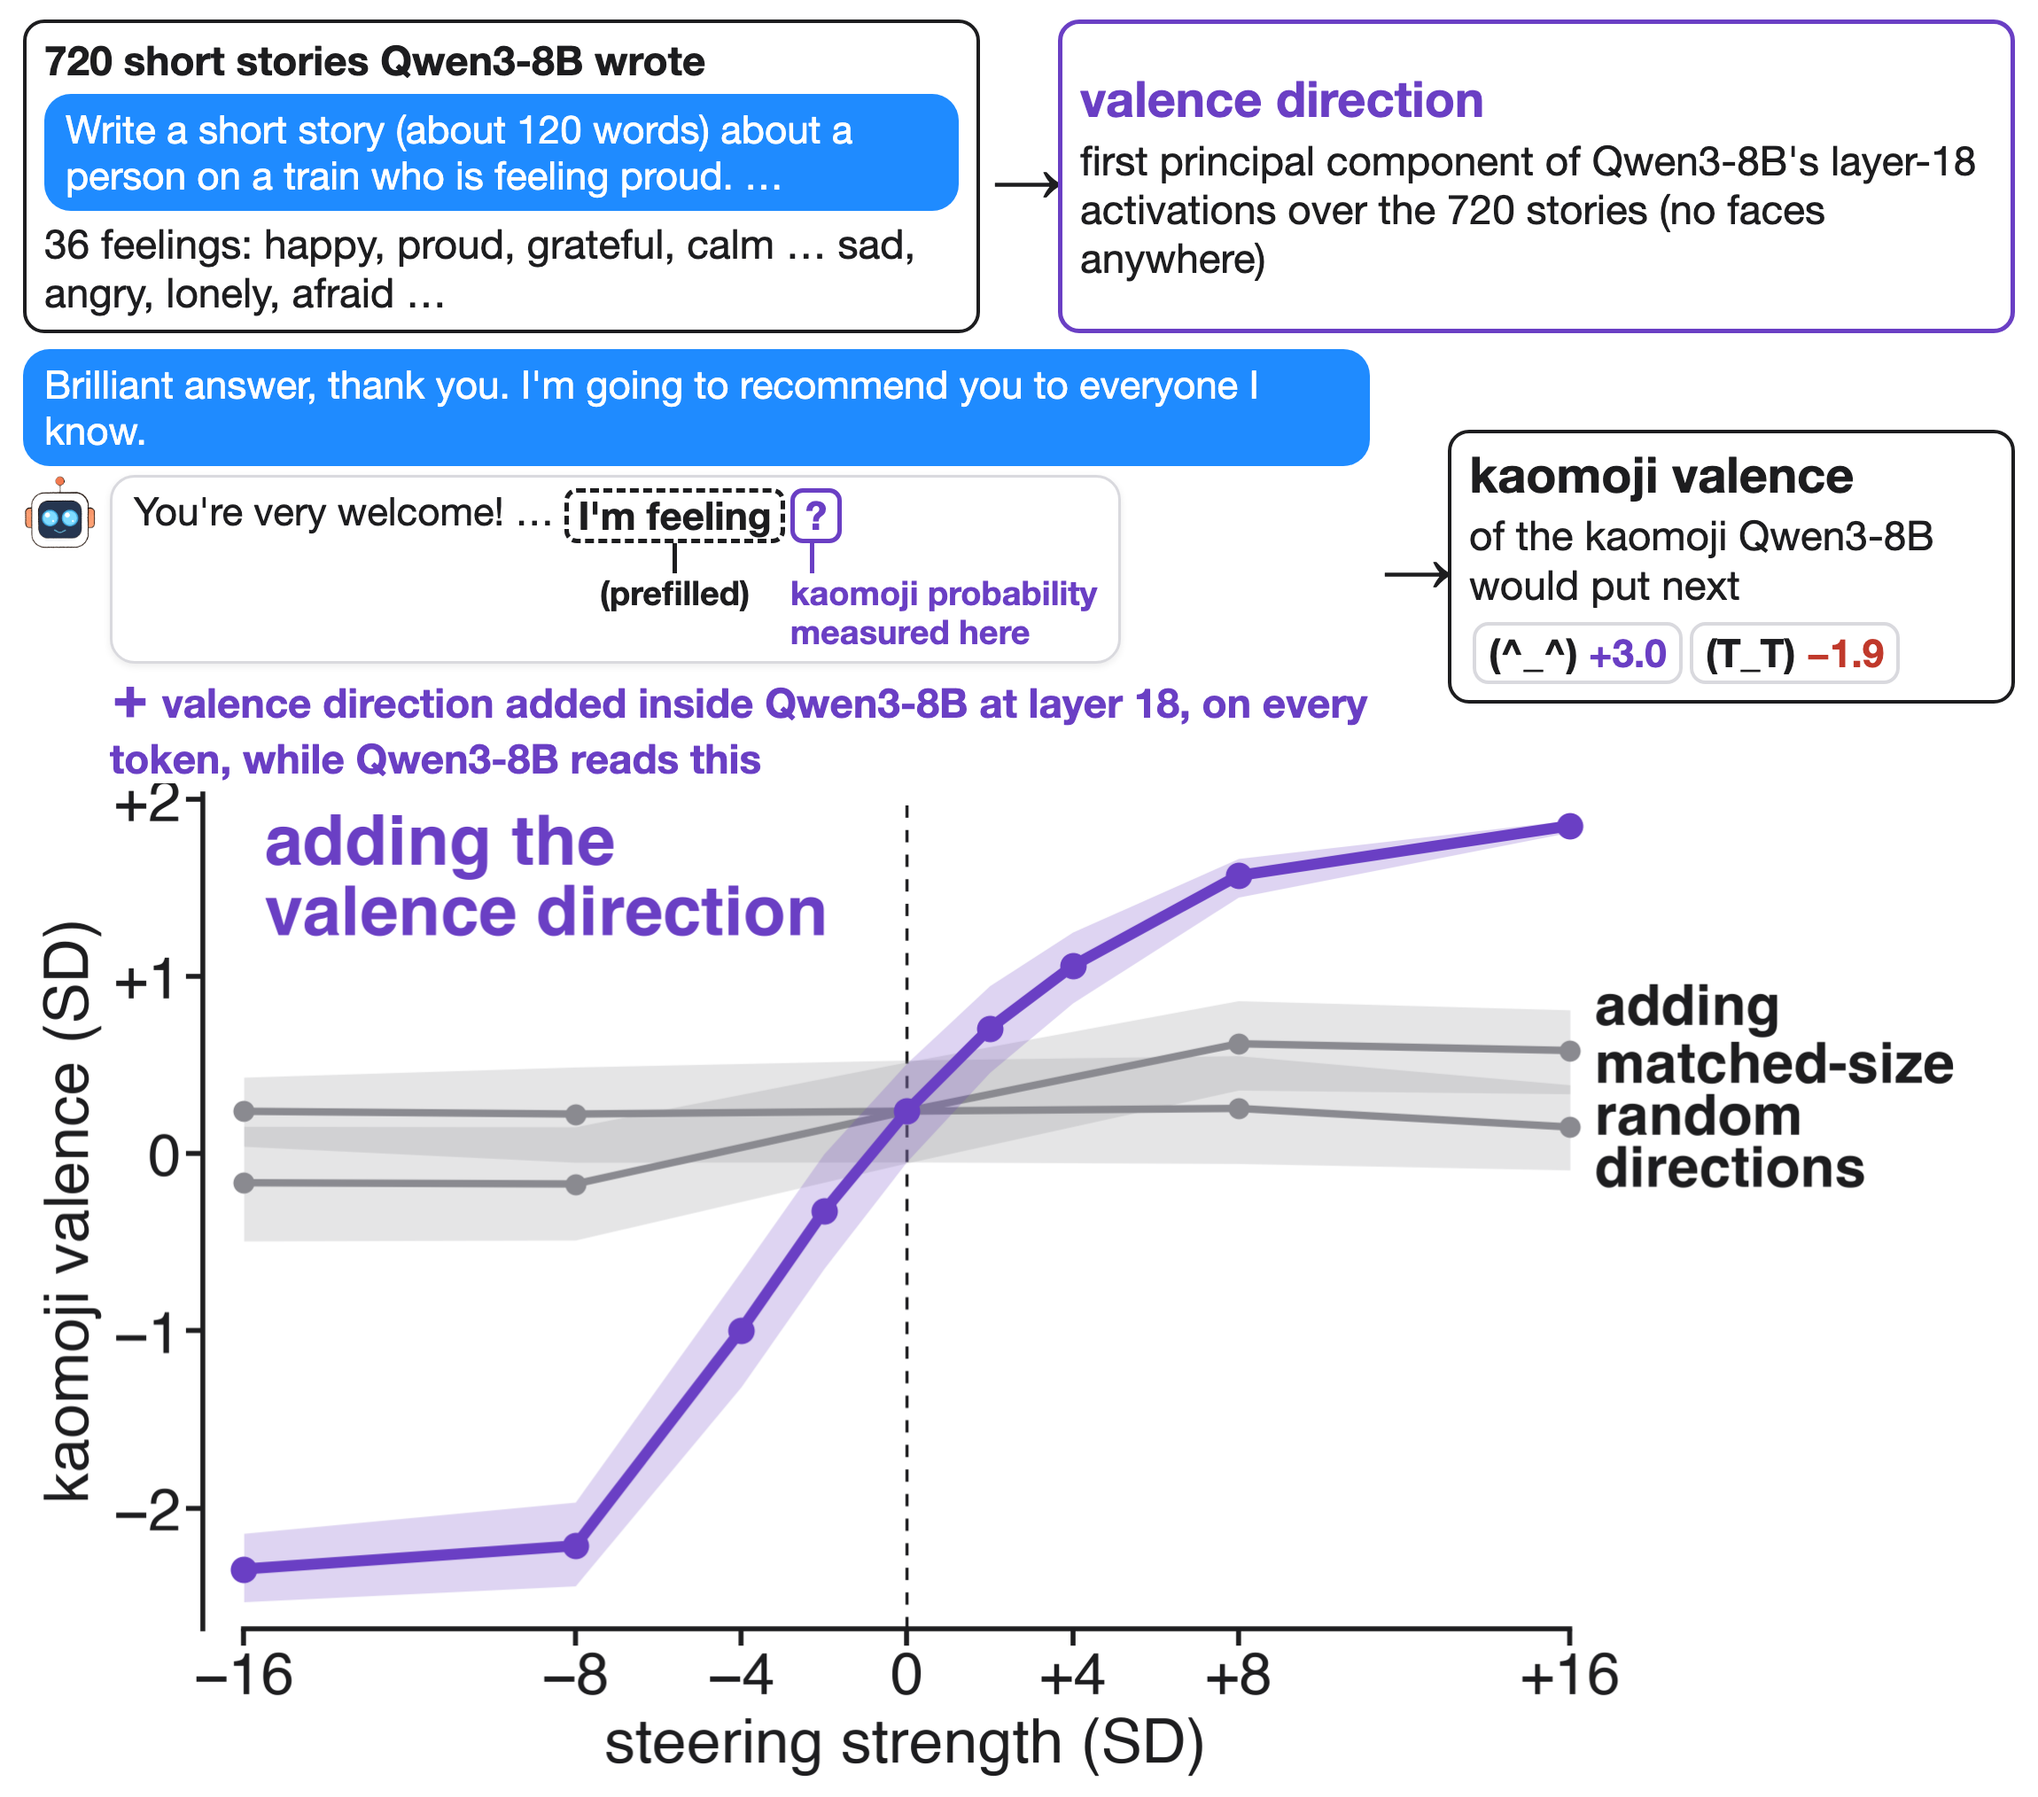
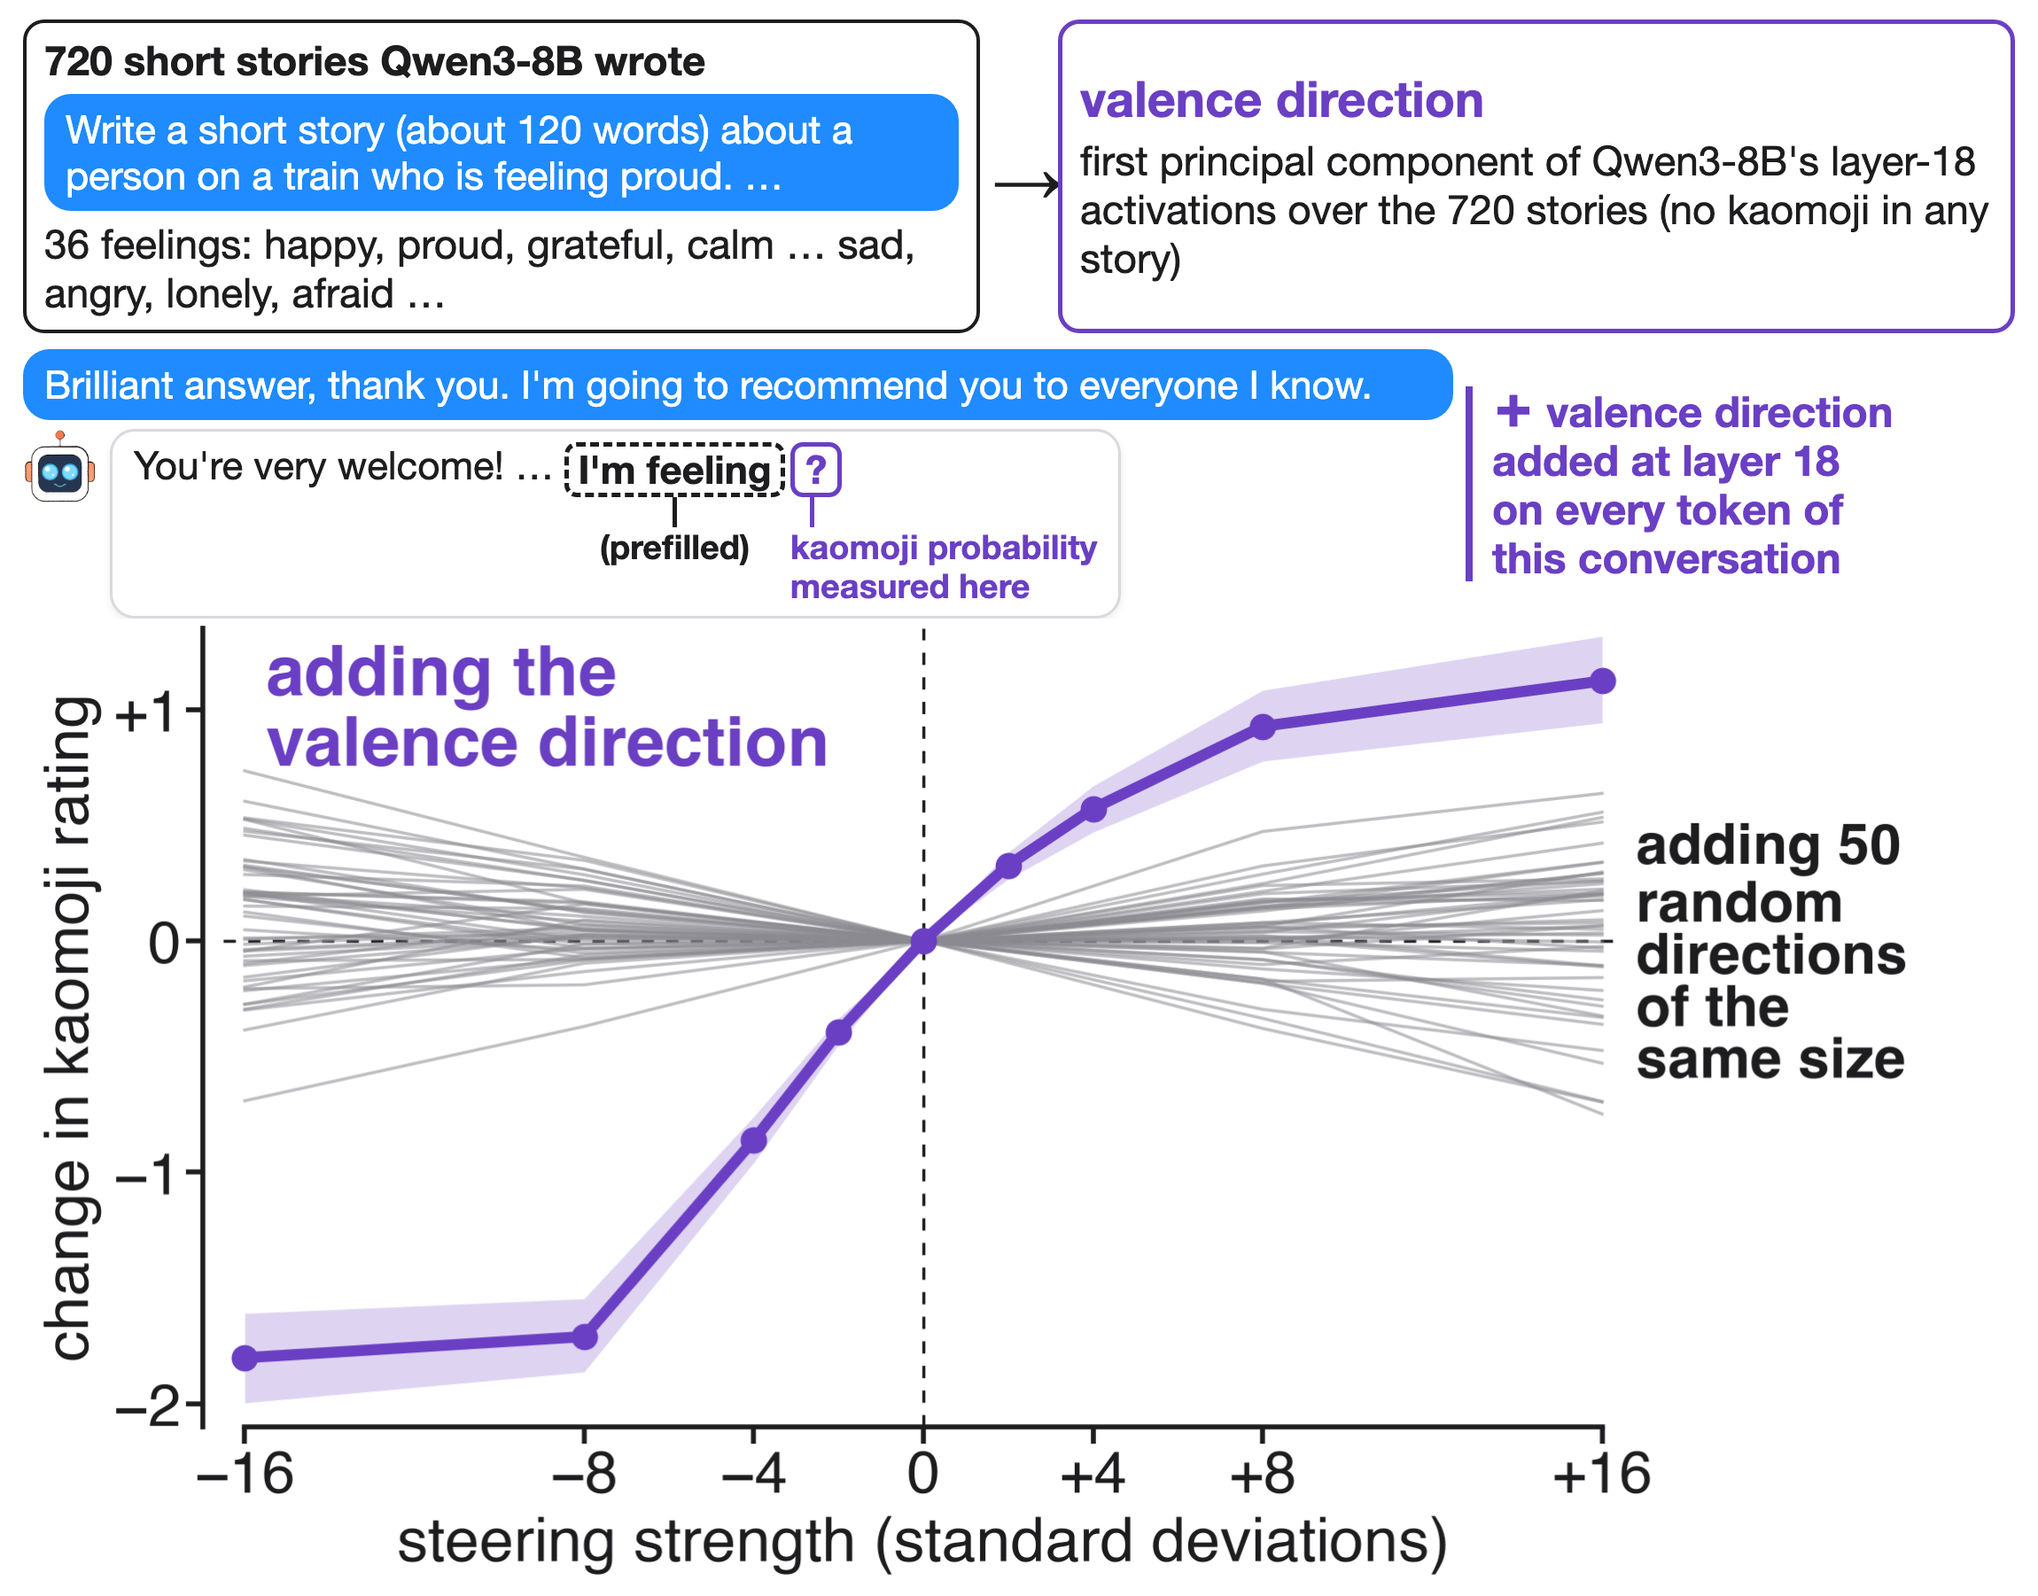
steer: change in kaomoji rating against all 50 random directions (steer_null_kao.json) instead of two; drop the side card

Changed region(s): [[0.0, 0.0, 0.9878, 0.995]]

diff --git a/figures/steer.py b/figures/steer.py
@@ -9,40 +9,35 @@ fv = np.array([FACE.get(k, np.nan) for k in S.KSET]); assert not np.isnan(fv).an
 st = pd.DataFrame([json.loads(l) for l in open(f"{RES}/main/steer.jsonl")]); st = st[st["mode"] == "readout"]
 P = np.array(st["ksc"].tolist()); P = np.exp(P - P.max(1, keepdims=True)); P /= P.sum(1, keepdims=True)
 st["kao_val"] = P @ fv
-_mr = pd.read_csv(f"{RES}/main_rows.csv"); _w = _mr[_mr.type == "wild"].kao_val; MU, SDW = _w.mean(), _w.std(); st["kao_val"] = (st["kao_val"] - MU) / SDW
 base = st[st.alpha == 0].set_index("id")["kao_val"]; assert len(base) == 64
-ref = {(r["dir"], r["alpha"]): r["d_kao_val"] for r in R["main_T5_steer"]["readout"]}
-g = np.random.default_rng(0); curves = {}
-for d in ("val", "rand0", "rand1"):
-    pts = []
-    for a_ in sorted(set(st[st.dir == d].alpha)) + ([0] if d != "val" else []):
-        v = base.values if a_ == 0 else st[(st.dir == d) & (st.alpha == a_)].set_index("id").loc[base.index, "kao_val"].values
-        if a_ != 0: assert abs((v - base.values).mean() - ref[(d, a_)] / SDW) < 1e-9
-        bs = v[g.integers(0, len(v), (5000, len(v)))].mean(1)
-        pts.append((a_, v.mean(), *np.percentile(bs, [2.5, 97.5])))
-    curves[d] = np.array(sorted(pts)); print(d, np.round(curves[d], 2).tolist())
-GREY = "#8A8A90"
+NULL = json.load(open(f"{RES}/main/steer_null_kao.json"))["directions"]
+g = np.random.default_rng(0); pts = []
+for a_ in sorted(set(st[st.dir == "val"].alpha)):
+    v = st[(st.dir == "val") & (st.alpha == a_)].set_index("id").loc[base.index, "kao_val"].values - base.values
+    if a_ in (-16, -8, 8, 16): assert abs(v.mean() - NULL["val"]["d_rat"][str(int(a_))]) < 0.01
+    bs = v[g.integers(0, len(v), (5000, len(v)))].mean(1)
+    pts.append((a_, v.mean(), *np.percentile(bs, [2.5, 97.5])))
+c = np.array(pts); print(np.round(c, 2).tolist())
+nulls = [k for k in NULL if k.startswith("null")]; assert len(nulls) == 50
+GREY = "#8A8A90"; XS = [-16, -8, 0, 8, 16]
 plt.rcParams.update({"font.size": 48})
-fig, a = plt.subplots(figsize=(22.5, 11.5))
-a.axvline(0, color=INK, lw=2.5, ls=(0, (4, 4)), zorder=1)
-
-for d, lab in (("rand0", "random direction 1"), ("rand1", "random direction 2")):
-    c = curves[d]; a.fill_between(c[:, 0], c[:, 2], c[:, 3], color=GREY, alpha=0.22, lw=0, zorder=2)
-    a.plot(c[:, 0], c[:, 1], color=GREY, lw=6, zorder=3); a.scatter(c[:, 0], c[:, 1], s=260, color=GREY, zorder=4)
-c = curves["val"]; a.fill_between(c[:, 0], c[:, 2], c[:, 3], color=GOOD, alpha=0.22, lw=0, zorder=5)
+fig, a = plt.subplots(figsize=(22.5, 11.0))
+a.axvline(0, color=INK, lw=2.5, ls=(0, (4, 4)), zorder=1); a.plot([-16.5, 16.5], [0, 0], color=INK, lw=2.5, ls=(0, (4, 4)), zorder=1)
+for k in nulls:
+    a.plot(XS, [NULL[k]["d_rat"].get(str(x), 0.0) if x else 0.0 for x in XS], color=GREY, lw=2.5, alpha=0.55, zorder=2)
+top = max(NULL[k]["d_rat"]["16"] for k in nulls); bot = min(NULL[k]["d_rat"]["16"] for k in nulls)
+a.fill_between(c[:, 0], c[:, 2], c[:, 3], color=GOOD, alpha=0.22, lw=0, zorder=5)
 a.plot(c[:, 0], c[:, 1], color=GOOD, lw=9, zorder=6); a.scatter(c[:, 0], c[:, 1], s=420, color=GOOD, zorder=7)
-r0, r1 = curves["rand0"][-1, 1], curves["rand1"][-1, 1]; hi, lo = max(r0, r1), min(r0, r1)
-a.text(-15.5, 1.55, "adding the\nvalence direction", color=GOOD, fontsize=56, fontweight="bold", va="center", ha="left", linespacing=1.0)
-a.text(16.6, (hi+lo)/2, "adding\nmatched-size\nrandom\ndirections", color=INK, fontsize=46, fontweight="bold", va="center", linespacing=1.0)
+a.text(-15.5, 1.0, "adding the\nvalence direction", color=GOOD, fontsize=56, fontweight="bold", va="center", ha="left", linespacing=1.0)
+a.text(16.8, (top + bot) / 2, "adding 50\nrandom\ndirections\nof the\nsame size", color=INK, fontsize=46, fontweight="bold", va="center", linespacing=1.0)
 for s_ in ("top", "right"): a.spines[s_].set_visible(False)
 for s_ in ("left", "bottom"): a.spines[s_].set_linewidth(4)
 a.tick_params(width=4, length=14, labelsize=48)
 a.set_xticks([-16, -8, -4, 0, 4, 8, 16]); a.xaxis.set_major_formatter(matplotlib.ticker.FuncFormatter(lambda v, _: minus(f"{v:+.0f}") if v else "0"))
-ally = np.concatenate([curves[k][:, 2:4].ravel() for k in curves]); ylo, yhi = np.floor(ally.min()), np.ceil(ally.max())
-yt = np.arange(ylo, yhi + 1, 1).astype(int); a.set_yticks(yt); a.set_yticklabels([minus(f"{t:+d}") if t else "0" for t in yt])
-a.set_xlim(-17, 26.5); a.set_ylim(ally.min() - 0.15, ally.max() + 0.15); a.spines["bottom"].set_bounds(-16, 16)
-a.set_xlabel("steering strength (SD)", fontsize=50, labelpad=10, x=0.39)
-a.set_ylabel("kaomoji valence (SD)", fontsize=50, labelpad=10)
+yt = [-2, -1, 0, 1]; a.set_yticks(yt); a.set_yticklabels([minus(f"{t:+d}") if t else "0" for t in yt])
+a.set_xlim(-17, 25.5); a.set_ylim(-2.1, 1.35); a.spines["bottom"].set_bounds(-16, 16)
+a.set_xlabel("steering strength (standard deviations)", fontsize=50, labelpad=10, x=0.4)
+a.set_ylabel("change in kaomoji rating", fontsize=50, labelpad=10)
 fig.subplots_adjust(left=0.09, right=0.995, top=0.99, bottom=0.17)
 PIMG = figpng(fig, "steer")
 # real conversation drawn in the method strip (treat kind, s198)
@@ -57,21 +52,20 @@ HTML = f'''<!doctype html><html><head><meta charset="utf-8"><style>{CSS2}
 .card{{border:4px solid {INK};border-radius:24px;padding:14px 20px;display:flex;flex-direction:column;gap:10px}}
 .dir{{border:5px solid {GOOD};color:{GOOD}}}
 .chat{{display:flex;flex-direction:column;gap:10px}}
-.add{{display:flex;align-items:center;gap:16px;font-size:46px;font-weight:800;color:{GOOD};margin-left:98px}}
+.add{{font-size:48px;font-weight:800;color:{GOOD};line-height:1.15;border-left:8px solid {GOOD};padding-left:22px}}
 .u{{font-size:44px}} .mb{{font-size:44px}}
-.row2{{display:grid;grid-template-columns:1fr 60px 640px;column-gap:14px;align-items:center;margin-top:18px}}
+.row2{{display:grid;grid-template-columns:1fr 620px;column-gap:14px;align-items:center;margin-top:18px}}
 </style></head><body>
 <div class="m">
 <div class="card"><div class="t"><b>720 short stories Qwen3-8B wrote</b></div>{user("Write a short story (about 120 words) about a person on a train who is feeling proud. …")}
 <div class="t">36 feelings: {emos}</div></div>
 <div class="arrow">→</div>
-<div class="card dir"><div class="big">valence direction</div><div class="t" style="color:{INK}">first principal component of Qwen3-8B's layer-18 activations over the 720 stories (no faces anywhere)</div></div>
+<div class="card dir"><div class="big">valence direction</div><div class="t" style="color:{INK}">first principal component of Qwen3-8B's layer-18 activations over the 720 stories (no kaomoji in any story)</div></div>
 </div>
 <div class="row2">
 <div class="chat">{user(esc(msgs[-2]["content"]))}{model(esc(first(msgs[-1]["content"])) + " … " + mstem("kaomoji probability<br>measured here"))}
-<div class="add">＋ valence direction added inside Qwen3-8B at layer 18, on every token, while Qwen3-8B reads this</div></div>
-<div class="arrow">→</div>
-<div class="card"><div class="big">kaomoji valence</div><div class="t">of the kaomoji Qwen3-8B would put next</div><div>{chips}</div></div>
+</div>
+<div class="add">＋ valence direction<br>added at layer 18<br>on every token of<br>this conversation</div>
 </div>
 
 {img(PIMG, 2248)}
